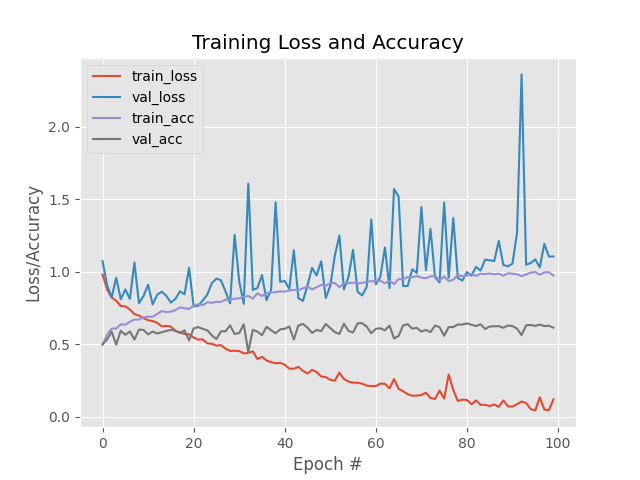
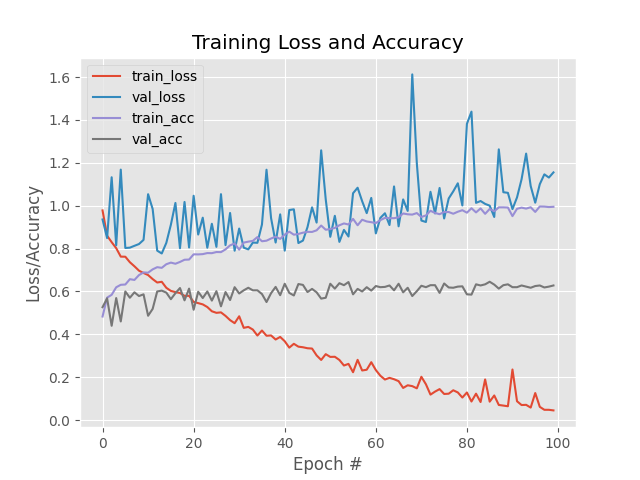
Atualiza projeto de classificação de tomates com documentação

diff --git a/chapter10-neural_network_fundamentals/keras_animals.py b/chapter10-neural_network_fundamentals/keras_animals.py
@@ -1,25 +1,22 @@
 # USAGE
 # python keras_animals.py --output output/keras_animals.png
-from sys import displayhook
-from sklearn.preprocessing import LabelEncoder
-from sklearn.preprocessing import LabelBinarizer
-from sklearn.preprocessing import normalize
-from sklearn.preprocessing import StandardScaler
-from sklearn.model_selection import train_test_split
-from sklearn.metrics import classification_report
-from tensorflow.keras.models import Sequential
-from tensorflow.keras.layers import Dense
-from tensorflow.keras.optimizers import SGD
-from tensorflow.keras.datasets import cifar10
-from pyimagesearch.preprocessing import SimplePreprocessor
-from pyimagesearch.datasets import SimpleDatasetLoader
-from imutils import paths
 import argparse
-import numpy as np
-import math
+from sys import displayhook
+
 import matplotlib.pyplot as plt
-from IPython.display import clear_output
-from matplotlib.pyplot import figure
+import numpy as np
+from imutils import paths
+from sklearn.metrics import classification_report
+from sklearn.model_selection import train_test_split
+from sklearn.preprocessing import (LabelBinarizer, LabelEncoder,
+                                   StandardScaler, normalize)
+from tensorflow.keras.datasets import cifar10
+from tensorflow.keras.layers import Dense
+from tensorflow.keras.models import Sequential
+from tensorflow.keras.optimizers import SGD
+
+from pyimagesearch.datasets import SimpleDatasetLoader
+from pyimagesearch.preprocessing import SimplePreprocessor
 
 # construct the argument parse and parse the arguments
 ap = argparse.ArgumentParser()
@@ -27,17 +24,30 @@ ap.add_argument("-o", "--output", required=True,
 	help="path to the output loss/accuracy plot")
 args = vars(ap.parse_args())
 
-imagePaths = list(paths.list_images('..\\datasets\\animals'))
-#imagePaths = list(paths.list_images('..\\datasets\\TOMATES_LADOS_CORES'))
+imagePaths = list(paths.list_images('./datasets/tomates/TOMATES_LADOS_CORES'))
+''' O caminho das imagens a serem usadas para treinar a rede neural '''
 
 # initialize the image preprocessor, load the dataset from disk,
 # and reshape the data matrix
-sp = SimplePreprocessor(32, 32)
+width = 8
+''' a largura para converter a imagem '''
+
+height = 8
+''' a altura para converter a imagem '''
+
+sp = SimplePreprocessor(width, height)
 sdl = SimpleDatasetLoader(preprocessors=[sp])
 (data, labels) = sdl.load(imagePaths, verbose=500)
 print('Shape {}'.format(data.shape))
 print('Shape[0] {}'.format(data.shape[0]))
-data = data.reshape((data.shape[0], 3072))
+
+area = width * height
+''' A área total da imagem '''
+
+size = 3 * area
+''' O tamanho total da entrada (tamanho da imagem) * 3(os três canais de cores do RGB) '''
+
+data = data.reshape((data.shape[0], size))
 
 print(data[0])
 
@@ -51,7 +61,9 @@ normalizar = True
 if (normalizar):
     # Aqui os valores dos canais de cores ficam entre zero e um
     #dataNormal = normalize(data)
-    dataNormal = data.astype("float") / 255.0
+    rgb_size = 255.0
+    ''' O tamanho total da faixa de cores suportadda pelo RGB '''
+    dataNormal = data.astype("float") / rgb_size
     print(dataNormal[0])
     # partition the data into training and testing splits using 75% of
     # the data for training and the remaining 25% for testing
@@ -77,17 +89,23 @@ else:
     
 # define the 3072-1024-512-3 architecture using Keras
 model = Sequential()
-model.add(Dense(1024, input_shape=(3072,), activation="relu"))
-model.add(Dense(512, activation="relu"))
-model.add(Dense(3, activation="softmax"))
+model.add(Dense(area , input_shape=(size,), activation="relu"))
+
+model.add(Dense(area/2, activation="relu"))
+
+output_size = 3
+''' A quantidade de classes para saída, a função de ativação deverá ser o softmax para conseguir definir qual será a classe de saída. '''
+
+model.add(Dense(output_size, activation="softmax"))
 
 # train the model using SGD
 print("[INFO] training network...")
 sgd = SGD(0.01)
 model.compile(loss="categorical_crossentropy", optimizer=sgd,
 	metrics=["accuracy"])
+epoch_size = 100
 H = model.fit(trainX, trainY, validation_data=(testX, testY),
-	epochs=100, batch_size=32)
+	epochs=epoch_size, batch_size=32)
 
 # evaluate the network
 print("[INFO] evaluating network...")
@@ -98,10 +116,10 @@ print(classification_report(testY.argmax(axis=1),
 # plot the training loss and accuracy
 plt.style.use("ggplot")
 plt.figure()
-plt.plot(np.arange(0, 100), H.history["loss"], label="train_loss")
-plt.plot(np.arange(0, 100), H.history["val_loss"], label="val_loss")
-plt.plot(np.arange(0, 100), H.history["accuracy"], label="train_acc")
-plt.plot(np.arange(0, 100), H.history["val_accuracy"], label="val_acc")
+plt.plot(np.arange(0, epoch_size), H.history["loss"], label="train_loss")
+plt.plot(np.arange(0, epoch_size), H.history["val_loss"], label="val_loss")
+plt.plot(np.arange(0, epoch_size), H.history["accuracy"], label="train_acc")
+plt.plot(np.arange(0, epoch_size), H.history["val_accuracy"], label="val_acc")
 plt.title("Training Loss and Accuracy")
 plt.xlabel("Epoch #")
 plt.ylabel("Loss/Accuracy")

diff --git a/chapter10-neural_network_fundamentals/pyimagesearch/preprocessing/simplepreprocessor.py b/chapter10-neural_network_fundamentals/pyimagesearch/preprocessing/simplepreprocessor.py
@@ -1,4 +1,5 @@
 # import the necessary packages
+import cv2
 class SimplePreprocessor:
 	def __init__(self, width, height, inter=cv2.INTER_AREA):
 		# store the target image width, height, and interpolation
